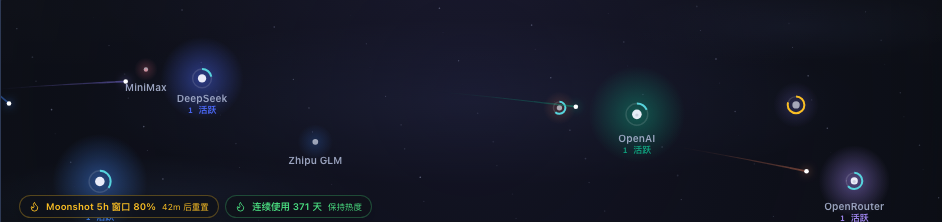
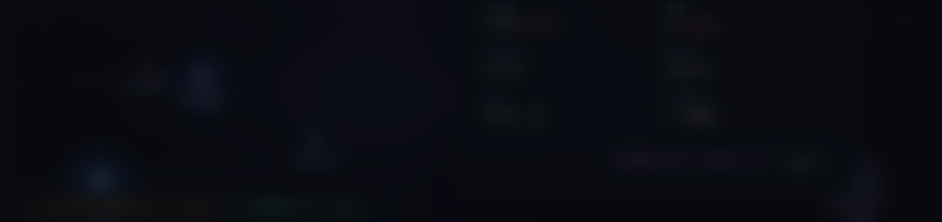
feat: thumb-views.py --ids filter — re-shoot only the views you touched
python3 scripts/thumb-views.py --ids scorecard,stellar regenerates just
those shots; limit raised to 400 for headroom.

diff --git a/scripts/thumb-views.py b/scripts/thumb-views.py
@@ -8,13 +8,18 @@ from pathlib import Path
 from playwright.sync_api import sync_playwright
 
 ROOT = Path(__file__).resolve().parent.parent
-LIMIT = 336
+LIMIT = 400
 if "--limit" in sys.argv:
     LIMIT = int(sys.argv[sys.argv.index("--limit") + 1])
+ONLY = None
+if "--ids" in sys.argv:
+    ONLY = set(sys.argv[sys.argv.index("--ids") + 1].split(","))
 
 app = (ROOT / "public/assets/app.js").read_text()
 meta = re.search(r"VIEW_META\s*=\s*\[([\s\S]*?)\];", app).group(1)
-ids = re.findall(r'\{\s*id:\s*"(\w+)"', meta)[:LIMIT]
+ids = re.findall(r'\{\s*id:\s*"(\w+)"', meta)
+if ONLY: ids = [i for i in ids if i in ONLY]
+ids = ids[:LIMIT]
 
 (ROOT / "public/shots").mkdir(parents=True, exist_ok=True)
 server = subprocess.Popen(["node", "preview.mjs"], cwd=ROOT,
